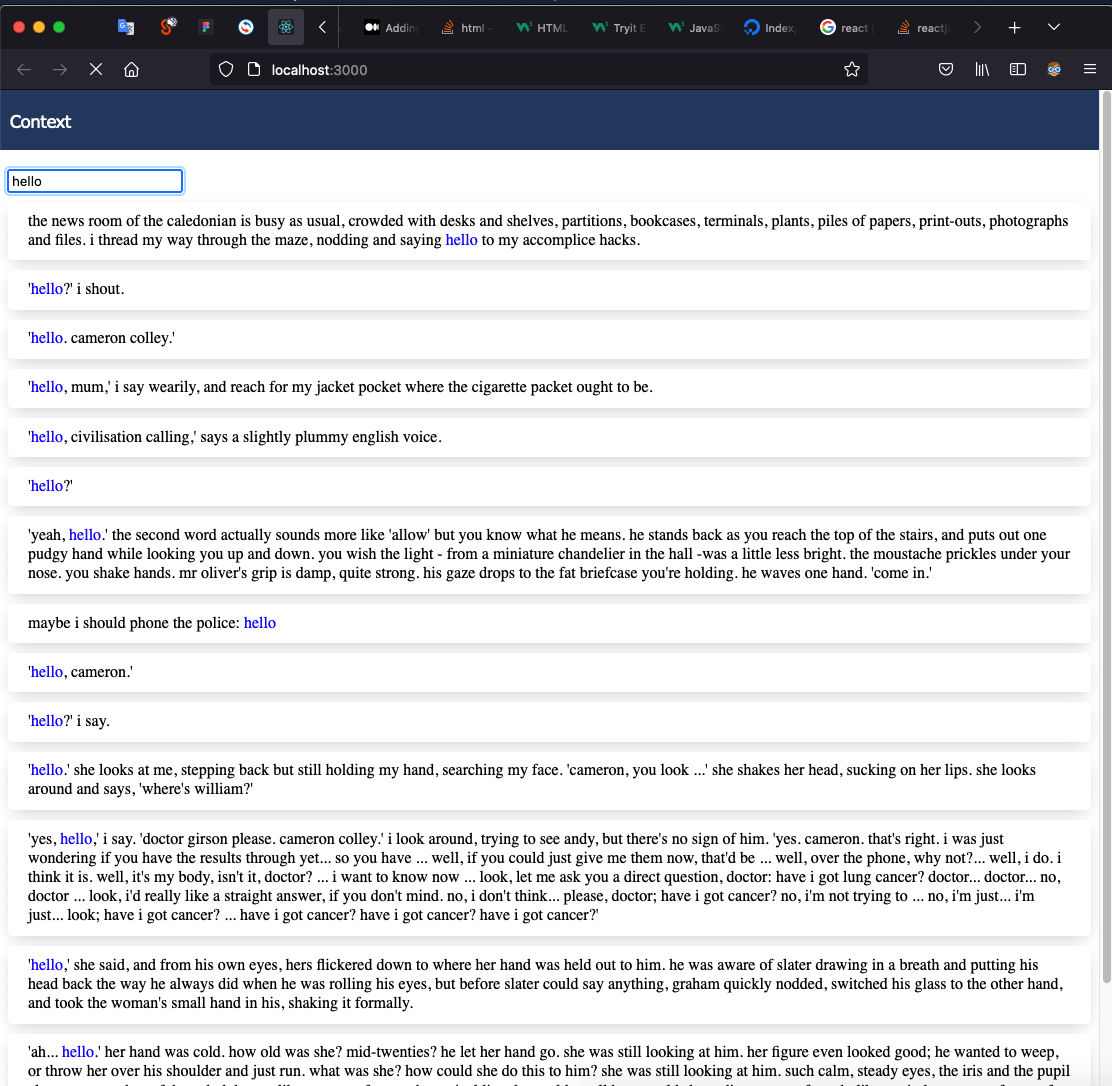
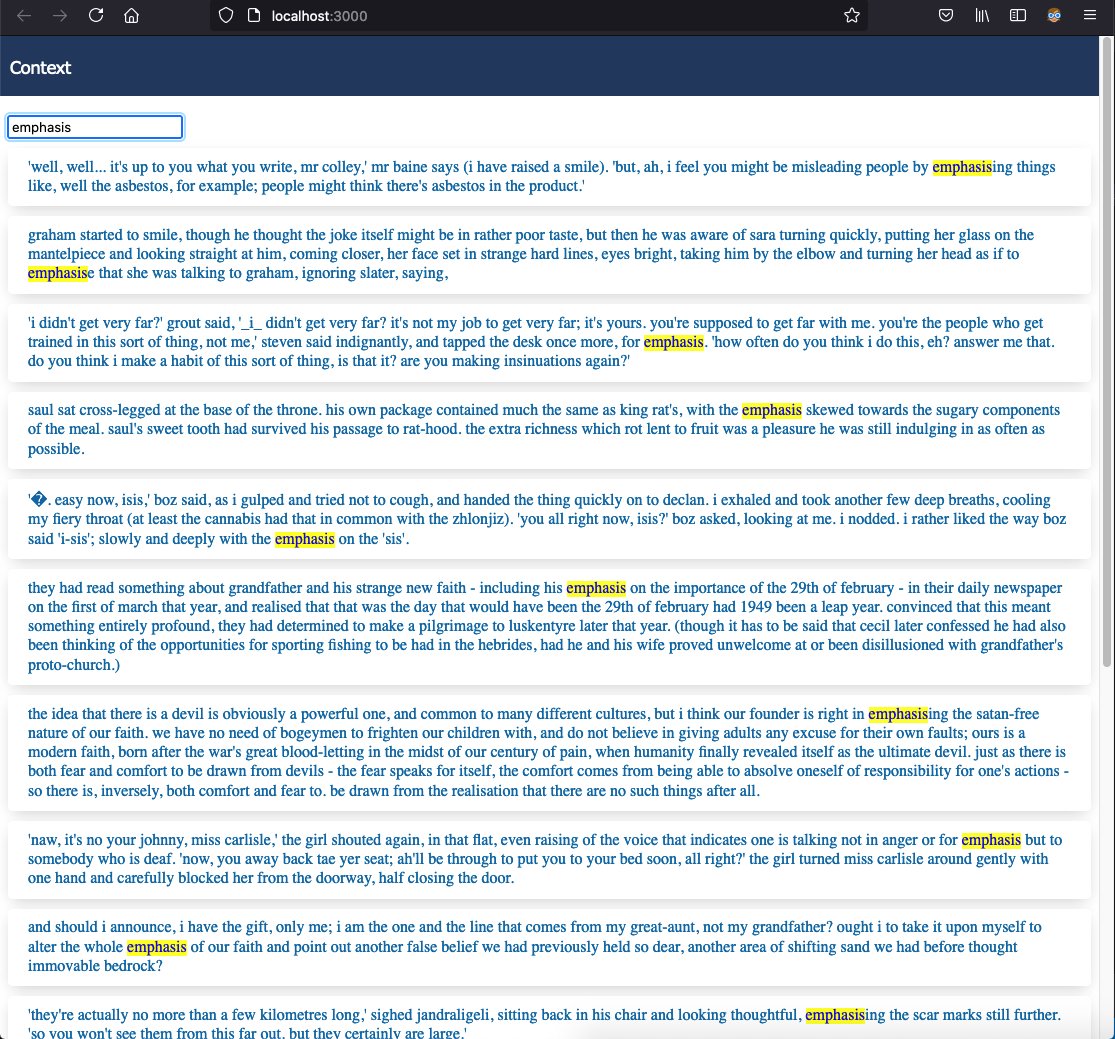
up styles

diff --git a/web_client/src/components/Sentence/Sentence.jsx b/web_client/src/components/Sentence/Sentence.jsx
@@ -19,7 +19,7 @@ class Sentence extends Component {
     return (
       <p className={'sentence'}>
         {this.state.message.left_part_of_sentence}
-        <span className={'emphasis'}>{this.state.message.key_sentence}</span>
+        <mark className={'emphasis'}>{this.state.message.key_sentence}</mark>
         {this.state.message.right_part_of_sentence}
       </p> 
     );

diff --git a/web_client/src/components/Sentence/styles.css b/web_client/src/components/Sentence/styles.css
@@ -6,6 +6,7 @@
   box-shadow: 0 5px 15px -5px rgba(0,0,0,.2);
   padding: 10px 20px;
   border-radius: 5px;
+  color: #0970ac;
   clear:both;
 }
 
